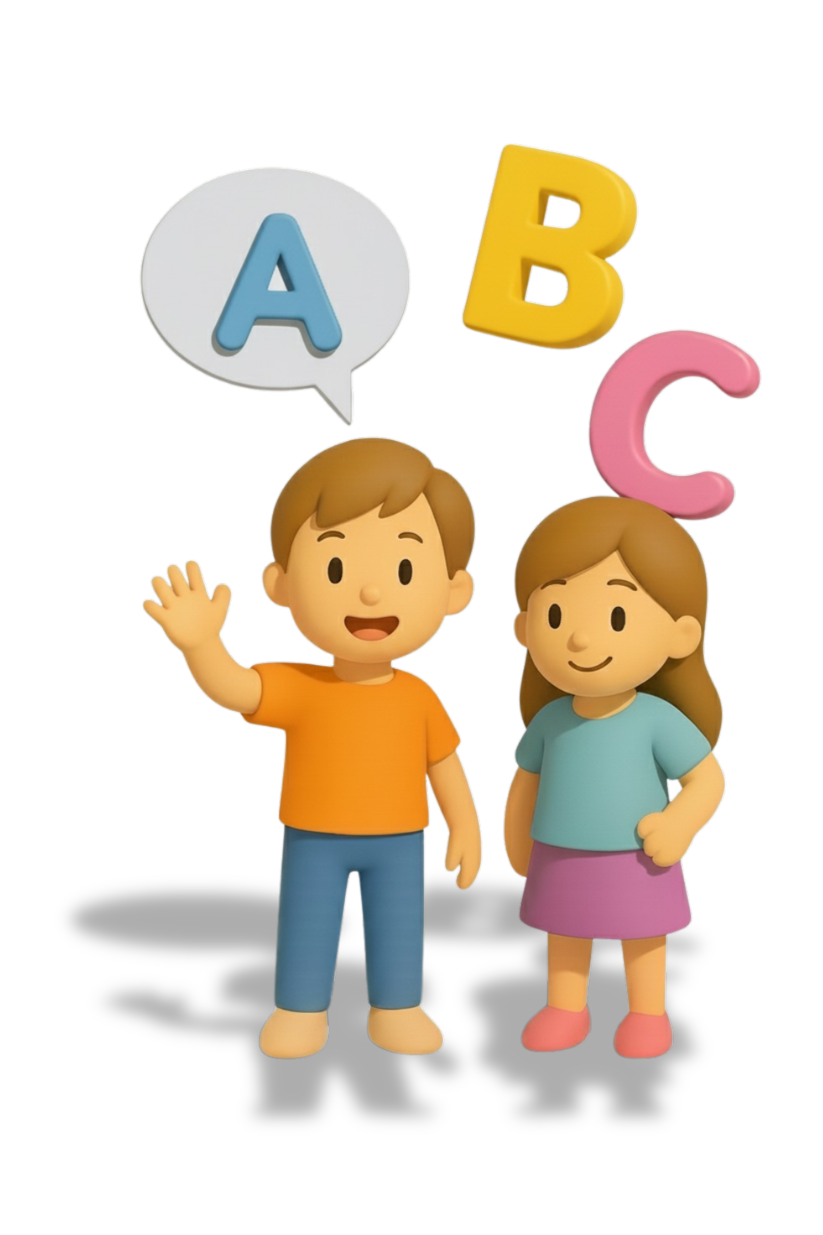
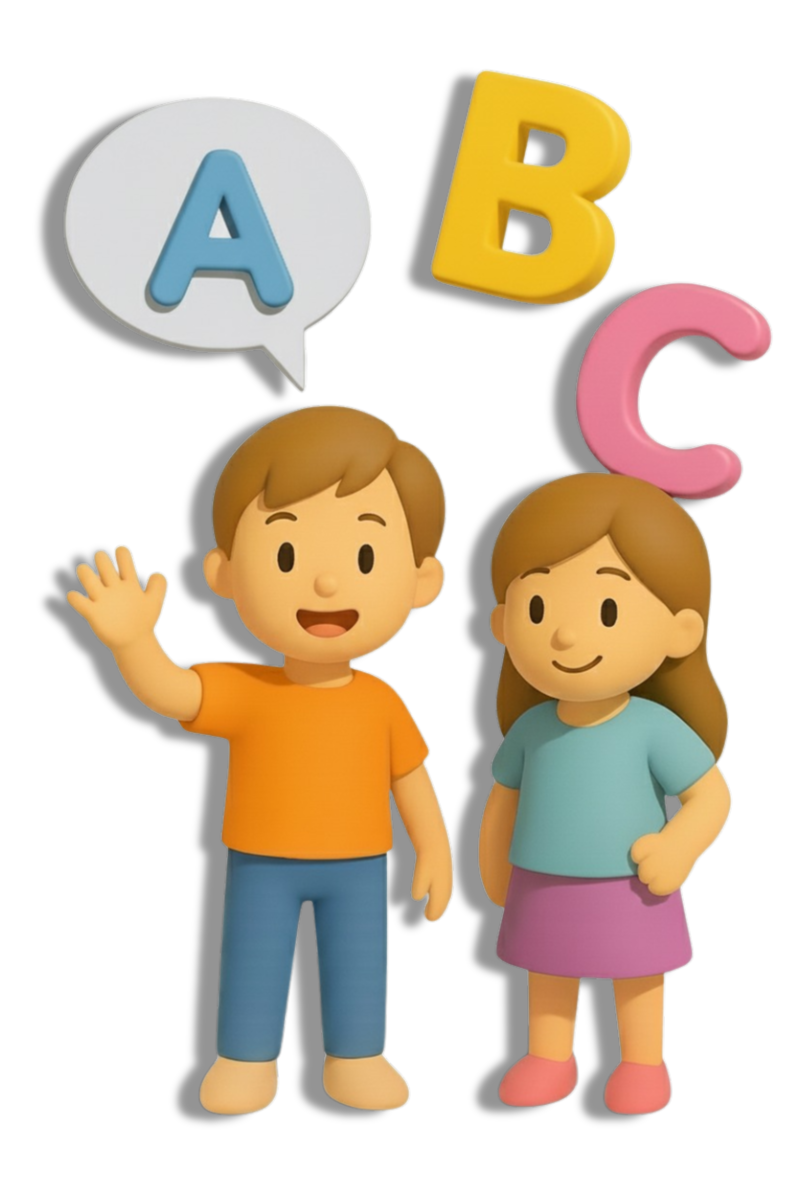
Arreglos en  el tamaño de las imagenes

diff --git a/css/index.css b/css/index.css
@@ -109,6 +109,23 @@ a.back-button svg {
   justify-content: center;
 }
 
+.illustration {
+  margin-top: 60px;
+  position: relative;
+  /* más grande, pero adaptable */
+  max-width: clamp(520px, 50vw, 980px);
+  max-height: 55vh;
+
+  filter: none;
+  z-index: 10;
+  transition: opacity 0.5s ease, transform 0.3s ease;
+  cursor: pointer;
+
+  /* un pelín más de zoom que antes */
+  transform: scale(1.35);
+  animation: slideZoom 0.6s ease-in-out;
+}
+
 @keyframes dropIn {
   0% {
     opacity: 0;
@@ -127,23 +144,6 @@ a.back-button svg {
   font-weight: 700;
 }
 
-.illustration {
-  margin-top: 20px;
-  position: relative;
-  /* más grande, pero adaptable */
-  max-width: clamp(520px, 50vw, 980px);
-  max-height: 72vh;
-
-  filter: none;
-  z-index: 10;
-  transition: opacity 0.5s ease, transform 0.3s ease;
-  cursor: pointer;
-
-  /* un pelín más de zoom que antes */
-  transform: scale(1.35);
-  animation: slideZoom 0.6s ease-in-out;
-}
-
 /* En pantallas pequeñas, que no se salga */
 @media (max-width: 900px) {
   .illustration {
@@ -152,7 +152,6 @@ a.back-button svg {
     transform: scale(1.15);
   }
 }
-
 
 #logout {
   margin-top: 10px;
